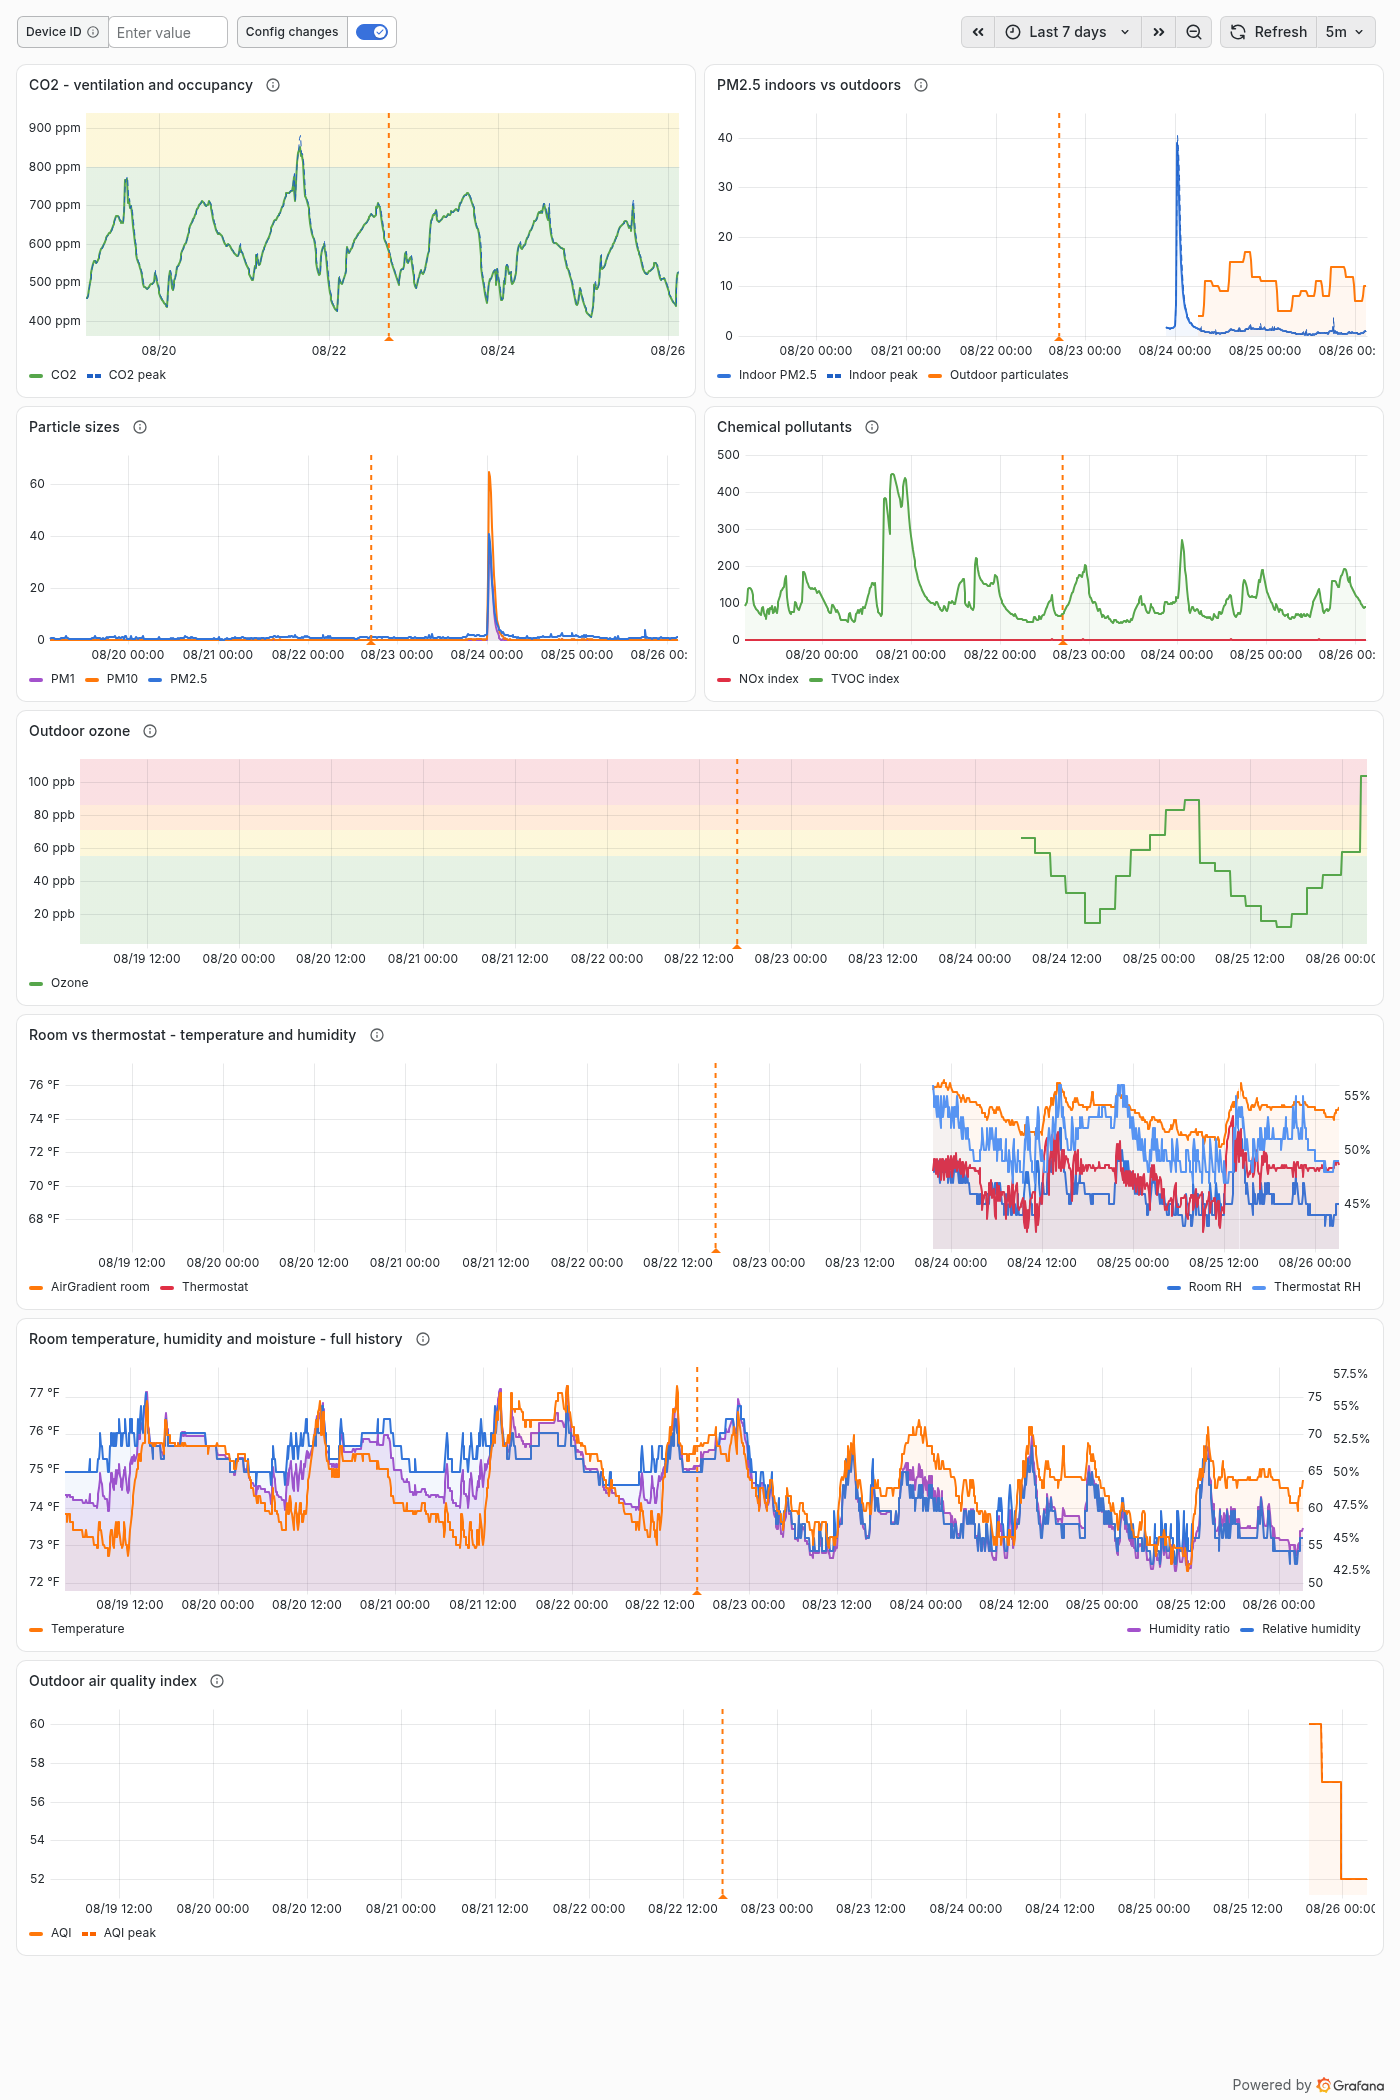
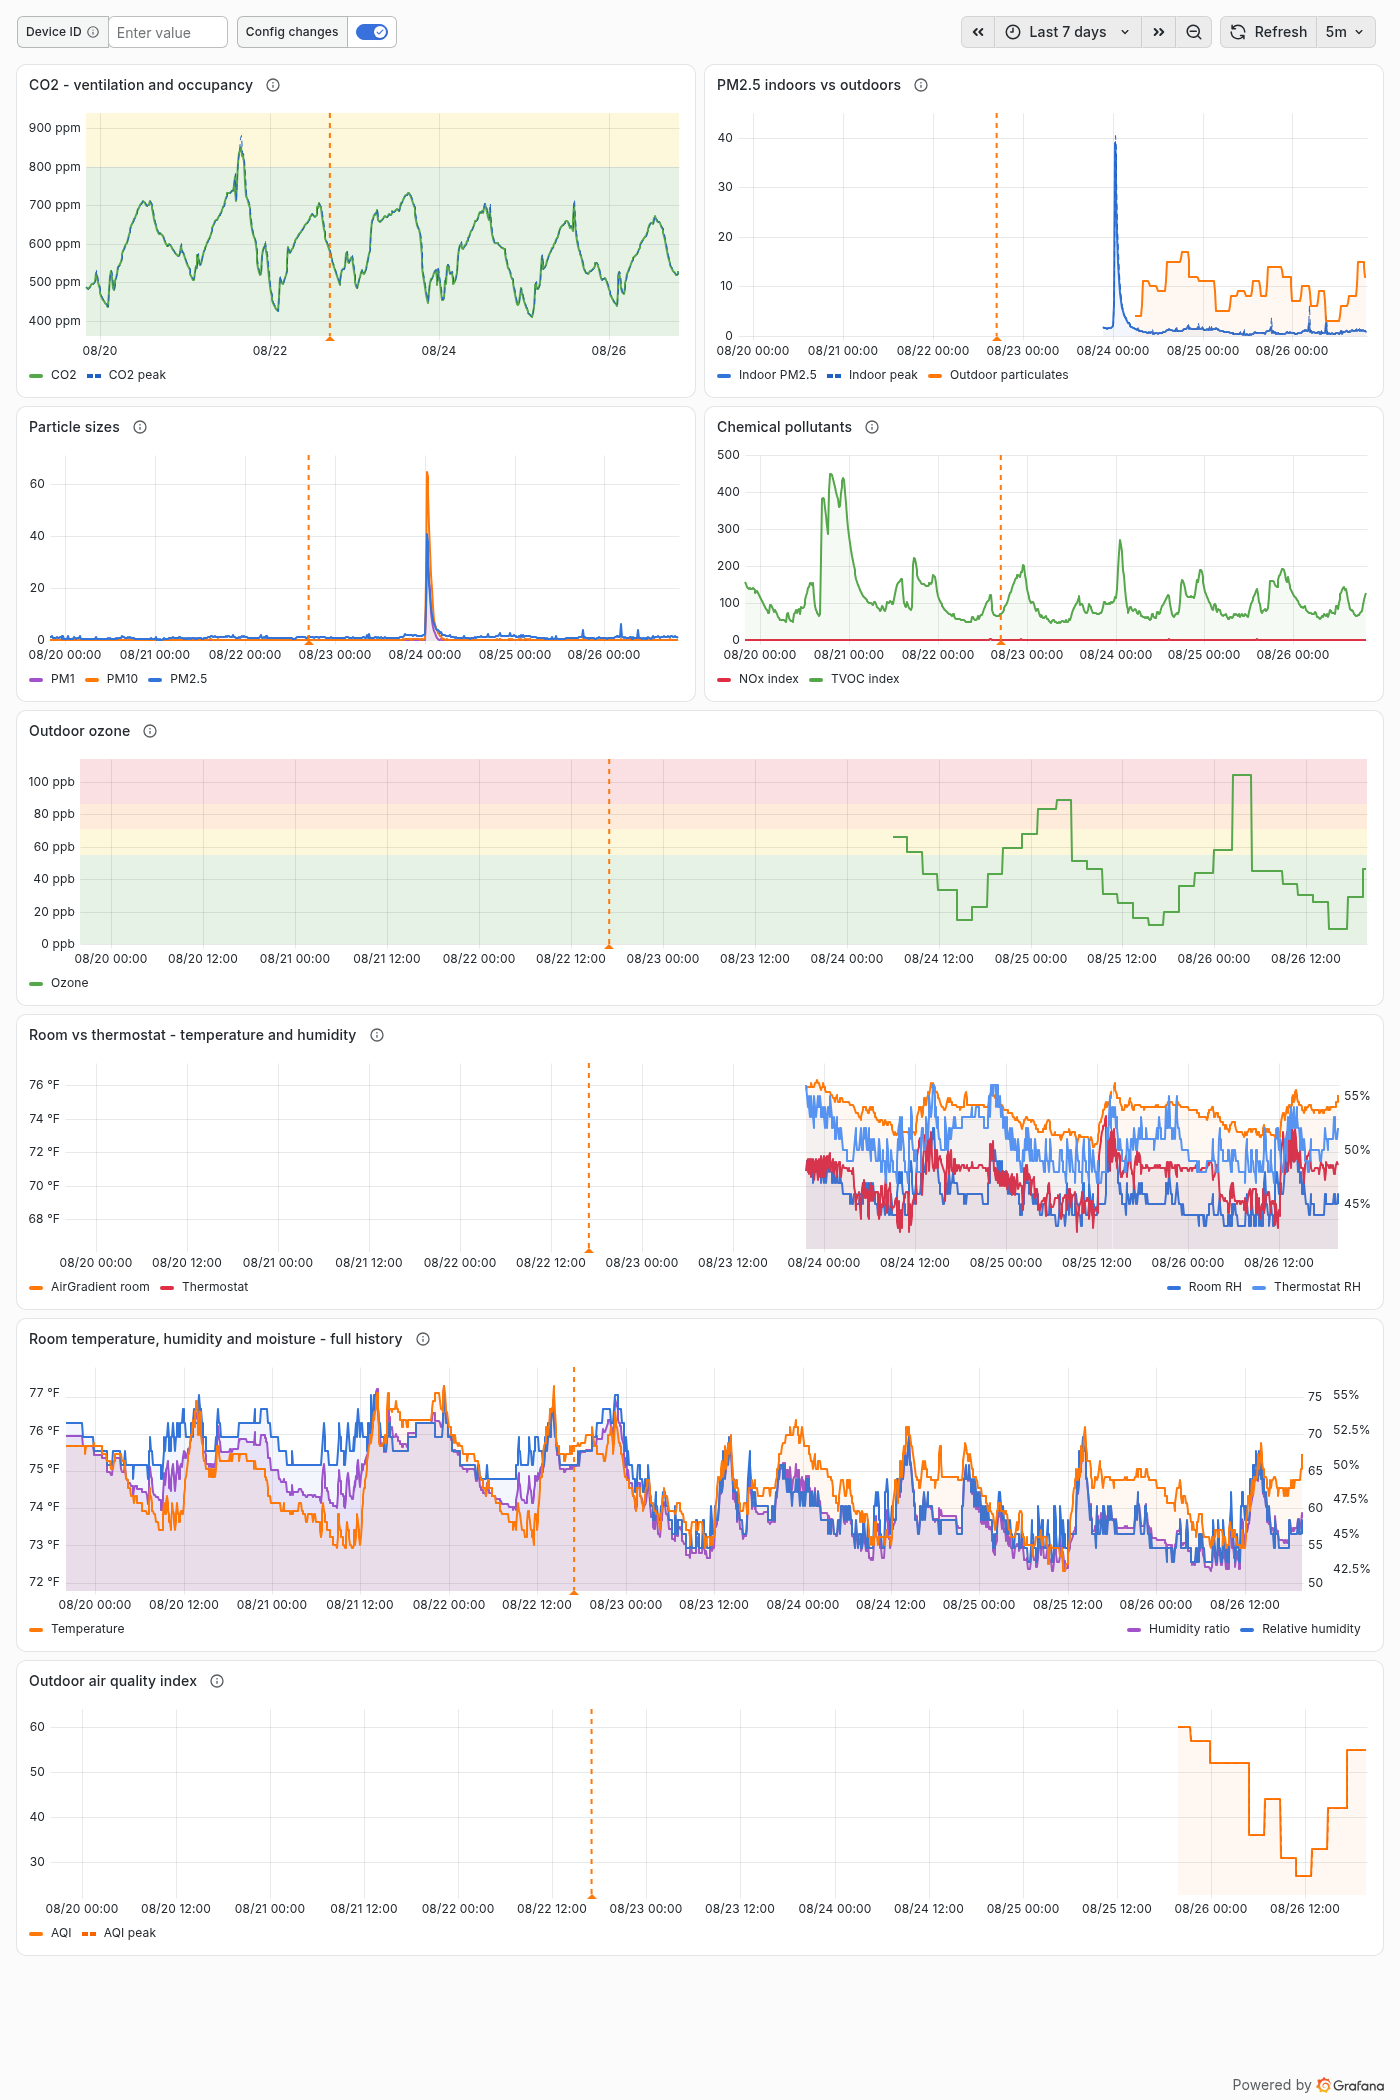
Add cumulative cost against cooling degree-hours
One point per day, both axes running totals: dollars against accumulated
cooling load above a 65F base. The base is the textbook convention and also
this house's measured balance point -- regressing outdoor power against outdoor
temperature gave 81.1 W per degree with an x-intercept at 65.

The point of plotting it this way is that it should be a straight line. The
same house losing the same heat per degree costs the same per degree to cool,
so the slope is dollars per degree-hour with the weather divided out -- a
figure comparable across months and across summers, which a monthly bill is
not. Measured over the first three full days: 0.0105, 0.0105, 0.0103.

The value is in the kink rather than the line. Points drifting above the
established slope mean the same weather costs more than it used to, which is
what a fouling coil or a slow charge loss looks like long before anything
reports a fault.

cum_degree_hours counts only samples that also carry a power reading. Weather
is always recorded but Skyport enrichment can be absent, and the first day here
had 92.9 unmetered degree-hours against no cost at all -- which offset the two
accumulators permanently and understated every dollars-per-degree-hour ratio
(0.0066 rising to 0.0088 as the artefact diluted, rather than the flat 0.0105
that is actually happening). The plain degree_hours column stays unconditional,
since as a weather figure it should not move because a metering source failed.
[…]

diff --git a/src/db/repo.ts b/src/db/repo.ts
@@ -677,6 +677,63 @@ function capabilityClause(): string[] {
   ];
 }
 
+/**
+ * Base temperature for cooling degree-hours, Fahrenheit.
+ *
+ * 65 F is the textbook convention, and it also happens to be this house's
+ * measured balance point: regressing outdoor power against outdoor temperature
+ * gave 81.1 W per degree with an x-intercept at 65. Below that the cooling load
+ * is nil, so degrees below it should not count toward accumulated load.
+ */
+const DEGREE_BASE_F = 65.0;
+
+/**
+ * Cost against accumulated cooling load, both running totals.
+ *
+ * Plotted against each other with one point per day, these should fall on a
+ * straight line: the same house losing the same heat per degree costs the same
+ * per degree to cool. The slope is dollars per degree-hour, and that is the
+ * number worth knowing -- it is comparable across months and across summers in
+ * a way that a monthly bill never is, because it has the weather divided out.
+ *
+ * A kink is the useful signal. Points drifting above the established line mean
+ * the same weather is costing more than it used to, which is what a fouling
+ * coil, a failing capacitor, or a lost charge looks like long before anything
+ * reports a fault. A step means something changed on a specific day, which is
+ * why config-change annotations are worth keeping.
+ *
+ * The window sums aggregates, so the inner SUM is per bucket and the outer one
+ * accumulates across them; SQLite evaluates window functions after GROUP BY,
+ * which makes that legal.
+ */
+function degreeHourClause(sampleSec: number, rate: number, bucket: number): string[] {
+  const outdoorF = `(temp_outdoor_c * 9.0 / 5.0 + 32.0)`;
+  const perSample = `MAX(${outdoorF} - ${DEGREE_BASE_F}, 0.0)`;
+  // Two-argument MAX is scalar in SQLite, so this clamps each sample rather
+  // than taking the maximum across the bucket.
+  const dh = `SUM(${perSample}) * ${sampleSec} / 3600.0`;
+
+  // The accumulating pair counts only samples that also carry a power reading.
+  // Otherwise the two totals start from different points -- weather is always
+  // recorded but Skyport enrichment can be absent -- and every dollars-per-
+  // degree-hour ratio is understated by however much load went unmetered. The
+  // plain degree_hours column stays unconditional, since as a weather figure it
+  // should not move because a metering source failed.
+  const metered = `CASE WHEN sp_outdoor_power IS NOT NULL THEN ${perSample} ELSE 0.0 END`;
+  const dhMetered = `SUM(${metered}) * ${sampleSec} / 3600.0`;
+  const hours = `(COUNT(sp_outdoor_power) * ${sampleSec} / 3600.0)`;
+  const cost = `AVG(sp_outdoor_power) * ${hours} / 1000.0 * ${rate}`;
+  const win = `OVER (PARTITION BY r.device_id ORDER BY (r.ts / ${bucket}))`;
+
+  return [
+    `ROUND(${dh}, 1) AS degree_hours`,
+    `ROUND(SUM(${dhMetered}) ${win}, 1) AS cum_degree_hours`,
+    rate > 0
+      ? `ROUND(SUM(${cost}) ${win}, 2) AS cum_cost`
+      : `NULL AS cum_cost`,
+  ];
+}
+
 /** The output name a select expression binds to, i.e. its trailing alias. */
 export function aliasOf(expr: string): string | null {
   return /\bAS\s+([A-Za-z_]\w*)\s*$/.exec(expr)?.[1] ?? null;
@@ -707,6 +764,7 @@ export function buildSelects(sampleSec = 300, rate = 0, bucket = 300): string[] 
     `MAX(sp_compressor_runtime) - LAG(MAX(sp_compressor_runtime))`
       + ` OVER (PARTITION BY r.device_id ORDER BY (r.ts / ${bucket})) AS compressor_runtime_delta`,
     ...energyClause(sampleSec, rate),
+    ...degreeHourClause(sampleSec, rate, bucket),
     ...psychroClause(),
     ...capacityClause(),
     ...airGradientClause(),

diff --git a/scripts/gen_dashboards.py b/scripts/gen_dashboards.py
@@ -746,6 +746,42 @@ panel(8, "Outdoor air quality index", [("sp_aq_outdoor_aqi", "AQI"),
 ]
 
 
+ENERGY += [
+    panel(8, "Cost against cooling load, accumulated",
+          [("cum_degree_hours", "Cooling degree-hours"), ("cum_cost", "Cost")],
+          # No panel-level unit: on an XY chart it applies to both axes, which
+          # would label degree-hours in dollars. Units go on the fields.
+          {"h": 10, "w": 24, "x": 0, "y": 24}, unit="", ptype="xychart", fmt="table",
+          url="/api/series?from=$__from&to=$__to&interval=86400000&device=$device",
+          desc="One point per day, both axes running totals. These should fall "
+               "on a straight line: the same house losing the same heat per "
+               "degree costs the same per degree to cool. The slope is dollars "
+               "per degree-hour, currently about $0.0105, and that is the number "
+               "worth knowing -- it has the weather divided out, so it compares "
+               "across months and across summers in a way a monthly bill cannot. "
+               "A kink is the signal. Points drifting above the established line "
+               "mean the same weather costs more than it used to, which is what "
+               "a fouling coil or a lost charge looks like long before anything "
+               "reports a fault. Degree-hours are measured above a 65F base, "
+               "this house's measured balance point, and counted only while "
+               "power was being metered so both totals cover the same period. "
+               "Buckets are UTC days, so the first and last point are partial "
+               "and will sit off the line.",
+          overrides=[
+              {"matcher": {"id": "byName", "options": "Cooling degree-hours"},
+               "properties": [{"id": "unit", "value": "none"}]},
+              {"matcher": {"id": "byName", "options": "Cost"},
+               "properties": [{"id": "unit", "value": "currencyUSD"},
+                              {"id": "color", "value": {"mode": "fixed", "fixedColor": "green"}}]},
+          ],
+          opts={"mapping": "auto",
+                "series": [{"showPoints": "always", "pointSize": {"fixed": 9}}],
+                "legend": {"displayMode": "list", "placement": "bottom", "showLegend": False},
+                "tooltip": {"mode": "single"}},
+          custom={"show": "points", "pointSize": {"fixed": 9}}),
+]
+
+
 if __name__ == "__main__":
     import io
 

diff --git a/scripts/grafana_shots.py b/scripts/grafana_shots.py
@@ -27,7 +27,9 @@ OUT = os.path.join("docs", "img")
 # panels off the bottom of the image.
 SHOTS = [
     ("daikin-air", "air-quality", "now-7d", 1400, 2100),
-    ("daikin-energy", "energy", "now-2d", 1400, 1500),
+    # 30 days: the cumulative panel accumulates over the selected range, so a
+    # short window makes it look like there is barely any history.
+    ("daikin-energy", "energy", "now-30d", 1400, 1900),
     ("daikin-health", "system-health", "now-2d", 1400, 2500),
     ("daikin-dehum", "dehumidification", "now-2d", 1400, 2800),
 ]

diff --git a/todo.md b/todo.md
@@ -162,6 +162,49 @@ and Refrigeration dashboards.
   uncalibrated. Superheat is charted raw because its *trend* is meaningful even
   when its scale is not; the other two are not charted at all.
 
+## Repository rename (decided, not done)
+
+`daikin-thermo-to-constant-graph-bridge` describes a one-way pipe between two
+named vendors, which is now the least of what this does.
+
+**`plenum` was chosen and then withdrawn.** There is a Plenum Home Assistant
+addon for HVAC zoning, which is a direct collision in the same niche -- and
+worse, that project *controls* the HVAC while this one is strictly read-only.
+Two same-named projects doing opposite things in one space is worse than a
+plain name clash. (Not independently verified: Reddit is unreachable from the
+tooling here and search did not surface it. Avoiding the name is cheap enough
+that confirming it is not worth blocking on.)
+
+Candidates, checked against GitHub for exact-name repos. Repo names only need
+to be unique within an owner's namespace, so this is about confusion and
+discoverability rather than availability:
+
+| Candidate | Exact-name repos | Note |
+|---|---|---|
+| **`returnair`** | none | recommended |
+| `supplyair` | none | |
+| `condensate` | 6* physics sim, 4* JS state lib | unrelated domains |
+| `wetbulb` | 3 tiny psychrometric calculators | implies a calculator library |
+| `degreedays` | tiny repos, but degreedays.net is an established service | avoid |
+| `airstream` | 627* plus a trailer brand | out |
+
+`returnair` is the recommendation: same register as plenum, one real HVAC noun,
+and the metaphor aims better. Return air is what comes back from the whole
+house carrying the aggregate state of every room, which is what this collects.
+It is observational by nature, correctly signalling a recorder rather than a
+controller, and it is vendor-neutral so it survives dropping ConstantGraph or
+Skyport.
+
+**Rename the GitHub repo only.** Leave `name` in `wrangler.toml` alone: changing
+it changes the workers.dev hostname, which breaks the Grafana datasource and
+with it all 45 panels and all six alert rules at once. Aligning the Worker name
+later is a deliberate migration -- deploy under the new name, update the
+Infinity datasource URL, re-push dashboards and alerts, then delete the old
+Worker.
+
+When the name is picked, update: README title, `package.json`, and the SETUP
+walkthrough.
+
 ## Dehumidification analysis (reference/hvac-dehumidification-brief.md)
 
 **Q4 answered, and it inverts the brief's main worry.** Dehumidification *is*
